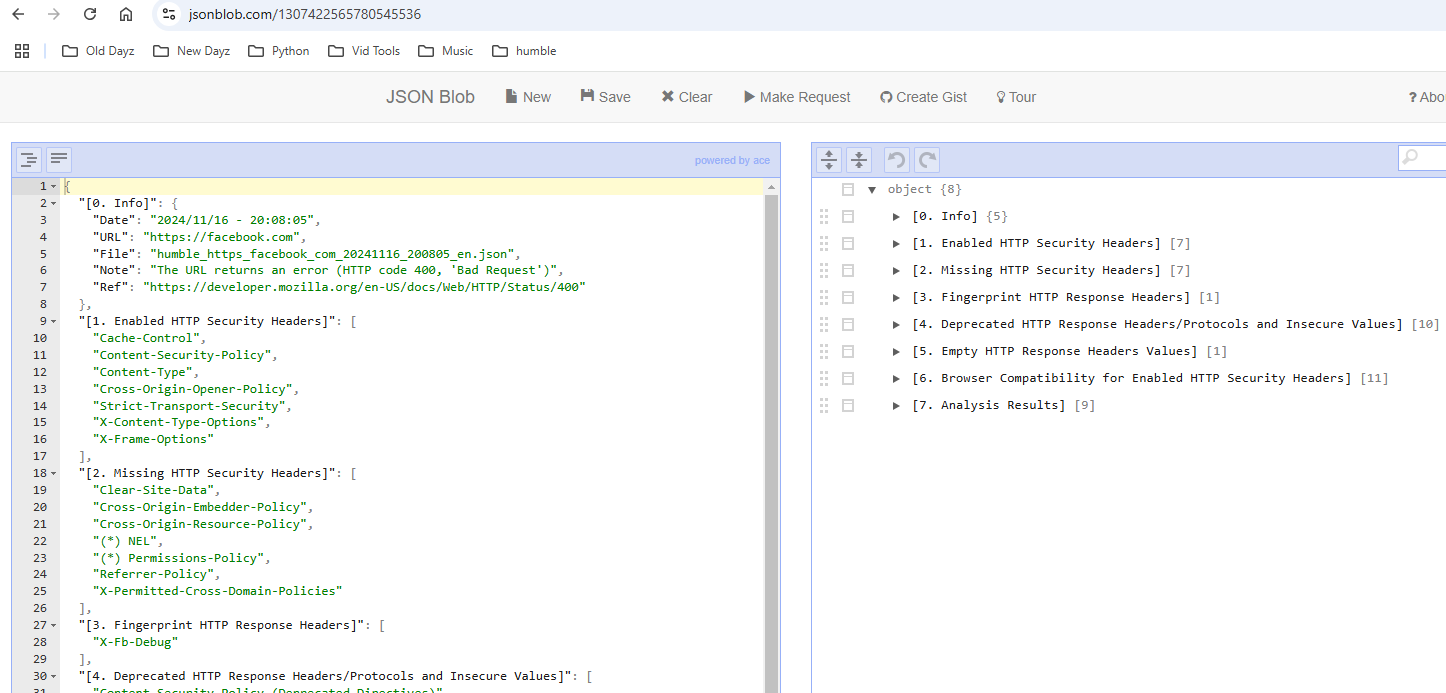
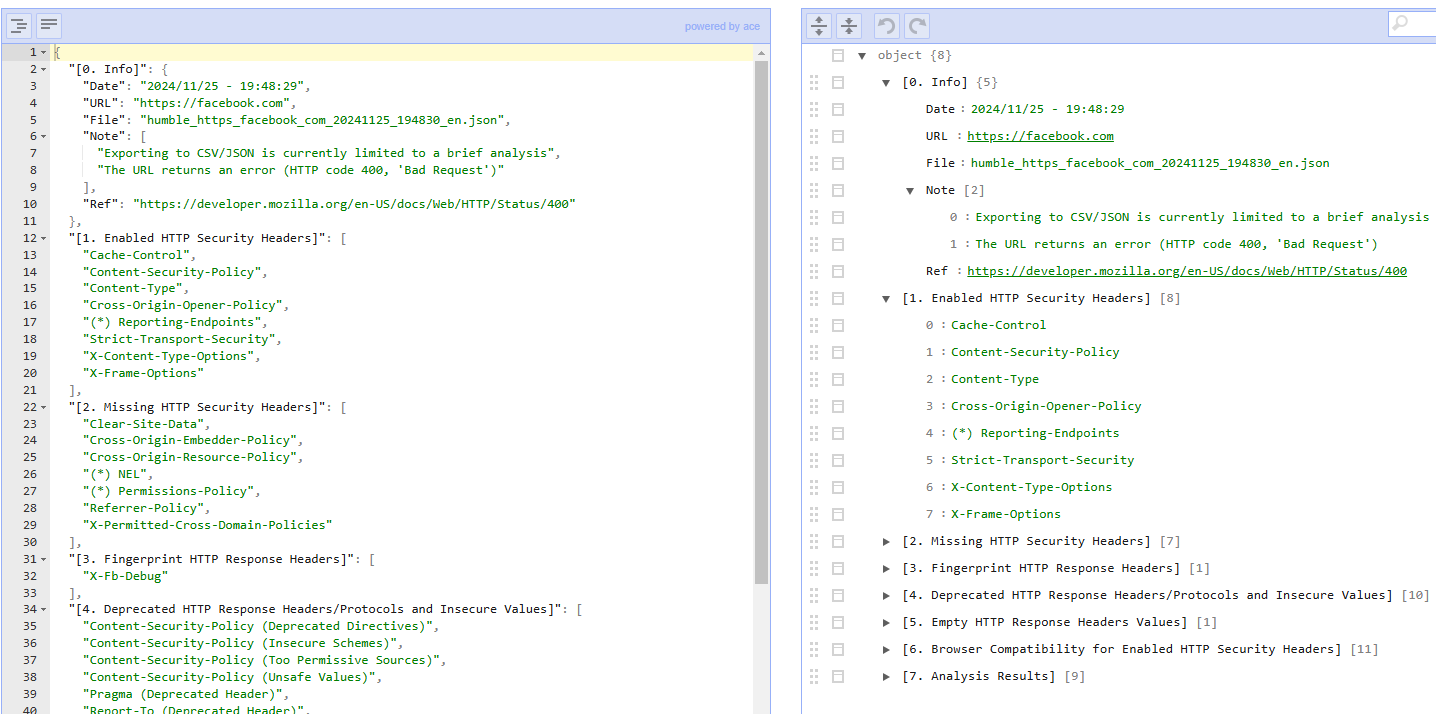
Fix: Export all 'Notes' when saving the analysis as a json

diff --git a/humble.py b/humble.py
@@ -129,7 +129,7 @@ tps://github.com/rfc-st/humble')
 URL_STRING = ('rfc-st', ' URL  : ', 'caniuse')
 
 current_time = datetime.now().strftime("%Y/%m/%d - %H:%M:%S")
-local_version = datetime.strptime('2024-11-24', '%Y-%m-%d').date()
+local_version = datetime.strptime('2024-11-25', '%Y-%m-%d').date()
 
 
 class SSLContextAdapter(requests.adapters.HTTPAdapter):
@@ -837,7 +837,7 @@ def get_enabled_headers(args, headers_l, t_enabled):
     enabled_headers = [header for header in t_enabled if header in headers_d]
     for header in enabled_headers:
         print_enabled_headers(args, header, headers_d)
-    print_nosec_headers(args) if not enabled_headers else None
+    None if enabled_headers else print_nosec_headers(args)
     print('\n')
 
 
@@ -1066,7 +1066,8 @@ def generate_json(temp_filename, final_filename):
 def parse_json(txt_sections, data, section0, sectionh, section5, section6):
     for i in range(0, len(txt_sections), 2):
         json_section = f'[{txt_sections[i]}]'
-        json_lns = txt_sections[i + 1].strip().split('\n')
+        json_lns = [line.strip() for line in txt_sections[i + 1].split('\n')
+                    if line.strip()]
         json_data = write_json(section0, sectionh, section5, section6,
                                json_section, json_lns)
         data[json_section] = json_data
@@ -1077,20 +1078,21 @@ def write_json(section0, sectionh, section5, section6, json_section, json_lns):
         json_data = {}
         format_json(json_data, json_lns)
     else:
-        json_data = [line.strip() for line in json_lns if line.strip()]
+        json_data = list(json_lns)
     return json_data
 
 
 def format_json(json_data, json_lns):
     for line in json_lns:
-        stripped_line = line.strip()
-        if not stripped_line:
-            continue
-        if ':' in stripped_line:
-            key, value = stripped_line.split(':', 1)
-            json_data[key.strip()] = value.strip()
-        else:
-            json_data[stripped_line] = ""
+        if ':' in line:
+            key, value = (part.strip() for part in line.split(':', 1))
+            if key in json_data:
+                if isinstance(json_data[key], list):
+                    json_data[key].append(value)
+                else:
+                    json_data[key] = [json_data[key], value]
+            else:
+                json_data[key] = value
     return json_data
 
 
@@ -1196,10 +1198,10 @@ def set_pdf_links(i, pdf_string):
 
 def set_pdf_style(pdf, line):
     if re.search(RE_PATTERN[10], line):
-        set_pdf_color(pdf, line, '#008000', '#000000')
+        set_pdf_color(pdf, line[19:], '#008000', '#000000')
         return
     elif re.search(RE_PATTERN[7], line):
-        set_pdf_color(pdf, line, '#660033', '#000000')
+        set_pdf_color(pdf, line[19:], '#660033', '#000000')
         return
     else:
         pdf.set_text_color(0, 0, 0)
@@ -1207,14 +1209,13 @@ def set_pdf_style(pdf, line):
 
 
 def set_pdf_color(pdf, line, hcolor, vcolor):
-    pdf_line = line[19:]
-    c_index = pdf_line.find(': ')
+    c_index = line.find(': ')
     if c_index != -1:
-        ln_header = f'<font color="{hcolor}">{pdf_line[:c_index + 2]}</font>'
-        ln_value = f'<font color="{vcolor}">{pdf_line[c_index + 2:]}</font>'
+        ln_header = f'<font color="{hcolor}">{line[:c_index + 2]}</font>'
+        ln_value = f'<font color="{vcolor}">{line[c_index + 2:]}</font>'
         ln_final = f"&nbsp;{ln_header}{ln_value}<br><br>"
     else:
-        ln_final = f'&nbsp;<font color="{hcolor}">{pdf_line}</font><br><br>'
+        ln_final = f'&nbsp;<font color="{hcolor}">{line}</font><br><br>'
     pdf.write_html(ln_final)
 
 

diff --git a/README.md b/README.md
@@ -6,7 +6,7 @@
 <a target="_blank" href="https://www.python.org/downloads/" title="Minimum Python version required to run this tool"><img src="https://img.shields.io/badge/Python-%3E%3D3.8-blue?labelColor=343b41"></a>
 <a target="_blank" href="LICENSE" title="License of this tool"><img src="https://img.shields.io/badge/License-MIT-blue.svg?labelColor=343b41"></a>
 <a target="_blank" href="https://github.com/rfc-st/humble/releases" title="Latest release of this tool"><img src="https://img.shields.io/github/v/release/rfc-st/humble?display_name=release&label=Latest%20Release&labelColor=343b41"></a>
-<a target="_blank" href="https://github.com/rfc-st/humble/commits/master" title="Latest commit of this tool"><img src="https://img.shields.io/badge/Latest_Commit-2024--11--24-blue.svg?labelColor=343b41"></a>
+<a target="_blank" href="https://github.com/rfc-st/humble/commits/master" title="Latest commit of this tool"><img src="https://img.shields.io/badge/Latest_Commit-2024--11--25-blue.svg?labelColor=343b41"></a>
 <a target="_blank" href="https://github.com/rfc-st/humble/actions?query=workflow%3ACodeQL" title="Results of the last analysis of this tool with CodeQL"><img src="https://github.com/rfc-st/humble/workflows/CodeQL/badge.svg"></a>
 <a target="_blank" href="https://pkg.kali.org/pkg/humble" title="Official tool in Kali Linux"><img src="https://img.shields.io/badge/Kali%20Linux-Tool-blue?labelColor=343b41"></a>
 <br />
@@ -141,7 +141,7 @@ Options used: -f -g -p -U -s --hints
 <img src="https://github.com/rfc-st/humble/blob/master/screenshots/humble_html_s.PNG" alt="(Linux) - Detailed analysis saved as HTML" width=70% height=70%>
 </p>
 <br />
-.: (Linux) - Brief analysis saved as JSON. <a href="http://jsonblob.com/1307422565780545536">Example.</a><br />
+.: (Linux) - Brief analysis saved as JSON. <a href="http://jsonblob.com/1310678759321559040">Example.</a><br />
 <p></p>
 <p align="center">
 <img src="https://github.com/rfc-st/humble/blob/master/screenshots/humble_json_s.PNG" alt="(Linux) - Brief analysis saved as JSON" width=70% height=70%>
